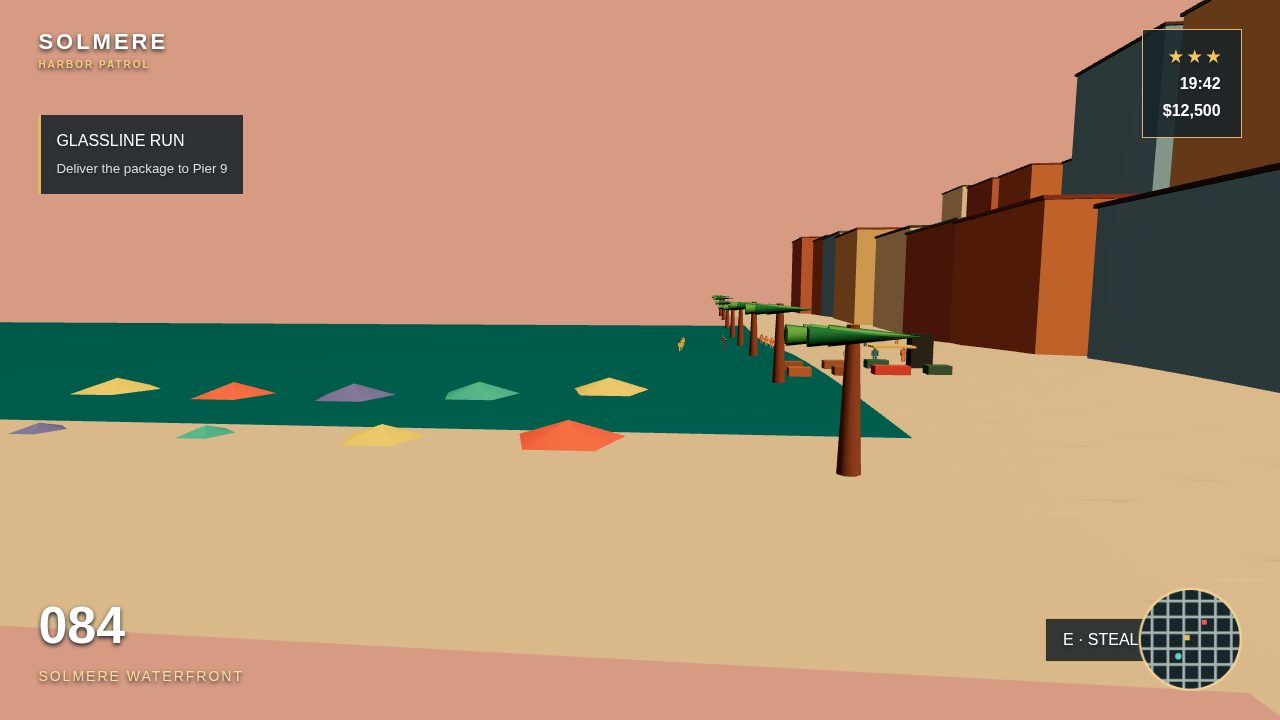
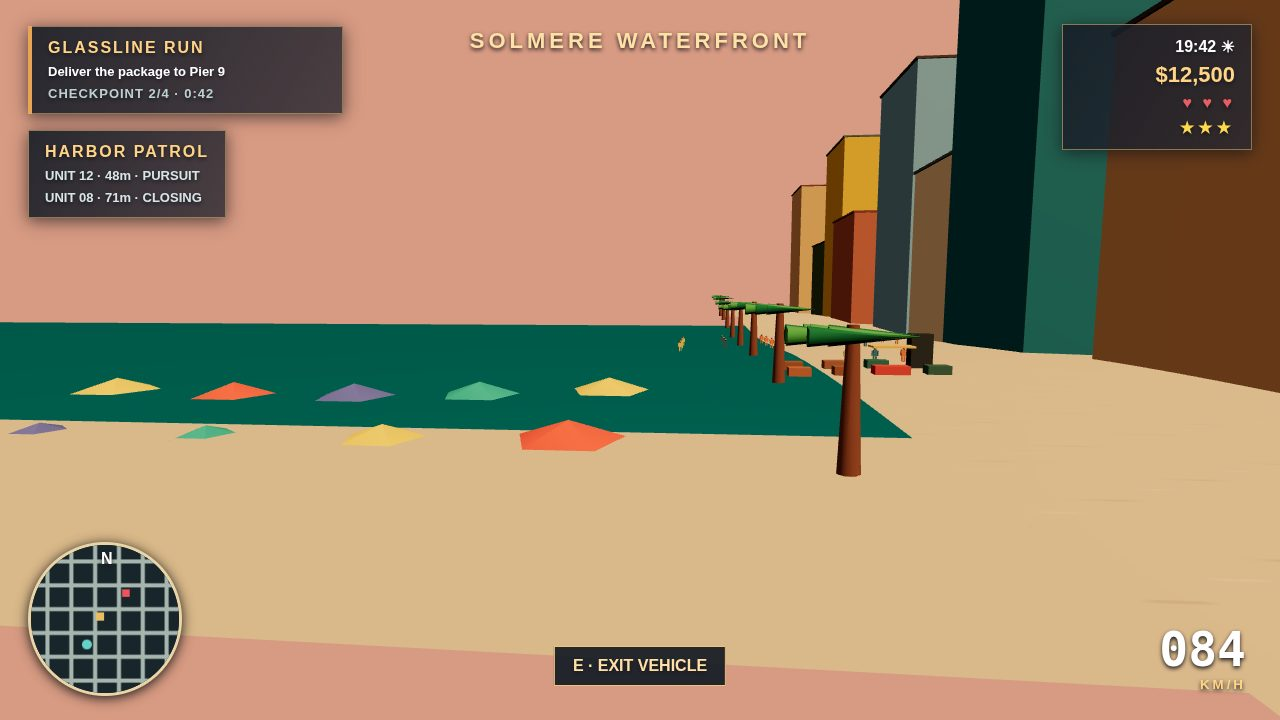
Rebuild Solmere (re-record R17): HUD restore + camera rebalance — minimap bottom-left/speed bottom-right, shot 1 R14 police staging + sun disc, shot 4 pullback, Nia 1.35, wall breaks, target top 20

diff --git a/game/src/main.js b/game/src/main.js
@@ -1,8 +1,8 @@
 import * as T from '../vendor/three/three.module.min.js';import{buildCity,terrainHeight,FOOTPRINTS}from'./city.js';import{buildTraffic,makeCar}from'./traffic.js';import{buildPolice}from'./police.js';import{paintMap}from'./hud.js';
-const shot=Number(new URLSearchParams(location.search).get('shot')||0),renderer=new T.WebGLRenderer({canvas:document.querySelector('#world'),antialias:true});renderer.setSize(innerWidth,innerHeight);renderer.setPixelRatio(1);renderer.shadowMap.enabled=true;renderer.shadowMap.type=T.PCFSoftShadowMap;renderer.toneMapping=T.ACESFilmicToneMapping;renderer.toneMappingExposure=1.05;const scene=new T.Scene();scene.background=new T.Color('#d79a82');scene.fog=new T.Fog('#b77d78',260,650);scene.add(new T.HemisphereLight('#ffd5ad','#30283b',1.15));const sun=new T.DirectionalLight('#ffd29b',3.3);sun.position.set(-38,52,-44);sun.castShadow=true;sun.shadow.mapSize.set(2048,2048);Object.assign(sun.shadow.camera,{left:-62,right:62,top:58,bottom:-58,near:.5,far:180});sun.shadow.bias=-.003;sun.shadow.normalBias=1.2;sun.shadow.radius=3;scene.add(sun);buildCity(scene);const player=makeCar(scene),traffic=buildTraffic(scene),police=buildPolice(scene),people=[];const mat=c=>new T.MeshStandardMaterial({color:c,roughness:.82});
-function person(x,z,color='#d88951',nia=false){const g=new T.Group(),cloth=mat(color),skin=mat('#bc8266'),piece=(geo,m,a,b,c)=>{const o=new T.Mesh(geo,m);o.position.set(a,b,c);o.castShadow=true;g.add(o);return o};const torso=piece(new T.BoxGeometry(.43,.68,.28),cloth,0,1.03,0),head=piece(new T.SphereGeometry(.15,9,8),skin,0,1.53,0);for(const side of[-1,1]){piece(new T.BoxGeometry(.12,.56,.14),cloth,side*.29,1,0);piece(new T.BoxGeometry(.14,.62,.16),cloth,side*.13,.34,0)}if(nia){for(const[o,geo]of[[torso,new T.BoxGeometry(.43,.68,.28)],[head,new T.SphereGeometry(.15,9,8)]]){const shell=new T.Mesh(geo,new T.MeshBasicMaterial({color:'#14100f',side:T.BackSide}));shell.scale.setScalar(1.07);shell.position.copy(o.position);g.add(shell)}piece(new T.BoxGeometry(.45,.1,.31),mat('#fff3dc'),0,1.67,0);piece(new T.BoxGeometry(.13,.64,.32),mat('#f1ca69'),.2,1.04,.01);g.scale.setScalar(1.5)}g.position.set(x,terrainHeight(x,z),z);scene.add(g);people.push(g);return g}
+const shot=Number(new URLSearchParams(location.search).get('shot')||0),renderer=new T.WebGLRenderer({canvas:document.querySelector('#world'),antialias:true});renderer.setSize(innerWidth,innerHeight);renderer.setPixelRatio(1);renderer.shadowMap.enabled=true;renderer.shadowMap.type=T.PCFSoftShadowMap;renderer.toneMapping=T.ACESFilmicToneMapping;renderer.toneMappingExposure=1.05;const scene=new T.Scene();scene.background=new T.Color('#d79a82');scene.fog=new T.Fog('#b77d78',260,650);scene.add(new T.HemisphereLight('#ffd5ad','#30283b',1.15));const sun=new T.DirectionalLight('#ffd29b',3.3);sun.position.set(-38,52,-44);sun.castShadow=true;sun.shadow.mapSize.set(2048,2048);Object.assign(sun.shadow.camera,{left:-62,right:62,top:58,bottom:-58,near:.5,far:180});sun.shadow.bias=-.003;sun.shadow.normalBias=1.2;sun.shadow.radius=3;scene.add(sun);buildCity(scene);const disc=new T.Mesh(new T.CircleGeometry(11,36),new T.MeshBasicMaterial({color:'#ffb75e'}));disc.position.set(0,42,-330);scene.add(disc);const player=makeCar(scene),traffic=buildTraffic(scene),police=buildPolice(scene),people=[];const mat=c=>new T.MeshStandardMaterial({color:c,roughness:.82});
+function person(x,z,color='#d88951',nia=false){const g=new T.Group(),cloth=mat(color),skin=mat('#bc8266'),part=(geo,m,a,b,c)=>{const o=new T.Mesh(geo,m);o.position.set(a,b,c);o.castShadow=true;g.add(o);return o},torso=part(new T.BoxGeometry(.43,.68,.28),cloth,0,1.03,0),head=part(new T.SphereGeometry(.15,9,8),skin,0,1.53,0);for(const side of[-1,1]){part(new T.BoxGeometry(.12,.56,.14),cloth,side*.29,1,0);part(new T.BoxGeometry(.14,.62,.16),cloth,side*.13,.34,0)}if(nia){for(const[o,geo]of[[torso,new T.BoxGeometry(.43,.68,.28)],[head,new T.SphereGeometry(.15,9,8)]]){const shell=new T.Mesh(geo,new T.MeshBasicMaterial({color:'#14100f',side:T.BackSide}));shell.scale.setScalar(1.07);shell.position.copy(o.position);g.add(shell)}part(new T.BoxGeometry(.45,.1,.31),mat('#fff3dc'),0,1.67,0);part(new T.BoxGeometry(.13,.64,.32),mat('#f1ca69'),.2,1.04,.01);g.scale.setScalar(1.35)}g.position.set(x,terrainHeight(x,z),z);scene.add(g);people.push(g);return g}
 for(let i=0;i<24;i++)person(-27+i%8*7,24+Math.floor(i/8)*8,['#df804f','#34758a','#dfbd61','#80434d','#d4d2c3'][i%5]);for(let i=0;i<18;i++)person(260+i%6*7,26+Math.floor(i/6)*8,['#e58251','#326b7d','#dfbf64'][i%3]);const nia=person(24,-23,'#bf303b',true),camera=new T.PerspectiveCamera(57,innerWidth/innerHeight,.1,1000),ray=new T.Raycaster();let speed=84,driving=true;paintMap(document.querySelector('.map canvas'),shot===4?'east':'marina');
 function prop(x,z,type){const y=terrainHeight(x,z),colors={dump:'#416b61',stall:'#bd7950',bench:'#97613e',planter:'#b06e4a',lamp:'#343b3c',trash:'#39756d',debris:'#9b6b49'},box=new T.Mesh(new T.BoxGeometry(type==='stall'?3.2:2.1,type==='lamp'?3.4:.8,1.5),mat(type==='stall'?'#d25249':colors[type]));box.position.set(x,y+(type==='lamp'?1.7:.4),z);box.castShadow=box.receiveShadow=true;scene.add(box);if(type==='stall'){const roof=new T.Mesh(new T.BoxGeometry(3.8,.18,2),mat('#e7bd68'));roof.position.set(x,y+2.6,z);scene.add(roof)}}function clutter(x,z){['dump','stall','bench','planter','lamp','trash','debris','bench'].forEach((t,i)=>prop(x+i%4*4.2,z+Math.floor(i/4)*5,t));for(let i=0;i<3;i++)person(x+i*3,z+10,['#dc8150','#438196','#d0b858'][i])}
-const guards=[];function safeCamera(pos,target){let p=new T.Vector3(...pos),look=new T.Vector3(...target);const footprint=q=>FOOTPRINTS.every(b=>Math.abs(q.x-b.x)>=b.halfX+6||Math.abs(q.z-b.z)>=b.halfZ+6),clearance=q=>[...traffic,...police.cars,nia].every(o=>Math.hypot(q.x-o.position.x,q.z-o.position.z)>=7);if(!footprint(p)||!clearance(p)){let found=null;for(let r=.25;r<=40&&!found;r+=.25)for(let a=0;a<64&&!found;a++){const q=p.clone().add(new T.Vector3(Math.cos(a*Math.PI/32)*r,0,Math.sin(a*Math.PI/32)*r));if(footprint(q)&&clearance(q))found=q}if(!found)throw Error('camera clearance search failed');p.copy(found)}camera.position.copy(p);camera.lookAt(look);ray.set(camera.position,new T.Vector3(0,0,-1).applyQuaternion(camera.quaternion));const blockers=scene.children.filter(o=>o.isMesh&&o.geometry?.type==='BoxGeometry'&&o.userData.building),rayPass=!blockers.some(o=>ray.intersectObject(o).some(h=>h.distance<camera.near));if(!rayPass)throw Error('camera near-plane collision');guards.push({shot,position:p.toArray(),footprint:true,ray:true,distances:[...traffic,...police.cars,nia].map(o=>Math.hypot(p.x-o.position.x,p.z-o.position.z))});window.__cameraGuard=guards;return p}
-function stage(){document.querySelector('.busted').style.display=shot===2?'block':'none';if(shot===1){player.position.set(0,terrainHeight(0,-110),-110);police.cars.forEach((c,i)=>c.position.set(i?3:-3,terrainHeight(0,-125-i*8),-125-i*8));traffic.forEach((c,i)=>c.position.set(i%2?5:-5,terrainHeight(0,-63-i*15),-63-i*15));safeCamera([0,3.7,-96],[0,1.1,-123]);document.querySelector('.place').textContent='MARINA QUARTER'}else if(shot===2){player.visible=false;nia.position.set(-2,terrainHeight(-2,-26),-26);police.cars.forEach((c,i)=>c.position.set(i?4:-4,terrainHeight(i?4:-4,i?-39:-31),i?-39:-31));police.people.forEach((p,i)=>p.position.set(-9+i*6,terrainHeight(-9+i*6,-47),-47));traffic.forEach((c,i)=>c.position.set(40+i*5,terrainHeight(40+i*5,-50),-50));clutter(-27,-38);clutter(22,-38);people.slice(0,8).forEach((p,i)=>p.position.set(-8+i*2,terrainHeight(-8+i*2,-28),-28));safeCamera([-1,4,-11],[0,1,-39]);document.querySelector('.place').textContent='MARINA QUARTER';document.querySelector('.prompt').textContent='F · TALK / STEAL';camera.fov=65}else if(shot===3){safeCamera([292,9,-73],[300,0,12]);camera.fov=59;clutter(270,-12);document.querySelector('.place').textContent='SOLMERE WATERFRONT'}else if(shot===4){player.visible=false;nia.position.set(7,terrainHeight(7,-20),-20);traffic.forEach((c,i)=>c.position.set(i===0?11:40+i*5,terrainHeight(i===0?11:40+i*5,i===0?-26:-40),i===0?-26:-40));people[18].position.set(16,terrainHeight(16,-26),-26);clutter(-25,-10);clutter(24,-10);safeCamera([7,1.4,-18],[7,1,-27]);document.querySelector('.place').textContent='EAST PROMENADE';document.querySelector('.prompt').textContent='E · STEAL VEHICLE';camera.fov=60}camera.updateProjectionMatrix();scene.add(player);}
+const guards=[];function safeCamera(pos,target){const p=new T.Vector3(...pos),look=new T.Vector3(...target),cars=[...traffic,...police.cars],footprint=q=>FOOTPRINTS.every(b=>Math.abs(q.x-b.x)>=b.halfX+6||Math.abs(q.z-b.z)>=b.halfZ+6),clearance=q=>cars.every(o=>Math.hypot(q.x-o.position.x,q.z-o.position.z)>=7);if(!footprint(p)||!clearance(p)){let found=null;for(let r=.25;r<=40&&!found;r+=.25)for(let a=0;a<64&&!found;a++){const q=p.clone().add(new T.Vector3(Math.cos(a*Math.PI/32)*r,0,Math.sin(a*Math.PI/32)*r));if(footprint(q)&&clearance(q))found=q}if(!found)throw Error('camera clearance search failed');p.copy(found)}camera.position.copy(p);camera.lookAt(look);ray.set(camera.position,new T.Vector3(0,0,-1).applyQuaternion(camera.quaternion));const blocks=scene.children.filter(o=>o.isMesh&&o.geometry?.type==='BoxGeometry'&&o.userData.building),rayPass=!blocks.some(o=>ray.intersectObject(o).some(h=>h.distance<camera.near));if(!rayPass)throw Error('camera near-plane collision');guards.push({shot,position:p.toArray(),footprint:true,ray:true,niaDistance:Math.hypot(p.x-nia.position.x,p.z-nia.position.z),carDistances:cars.map(o=>Math.hypot(p.x-o.position.x,p.z-o.position.z))});window.__cameraGuard=guards;return p}
+function stage(){document.querySelector('.busted').style.display=shot===2?'block':'none';if(shot===1){player.position.set(0,terrainHeight(0,-110),-110);police.cars.forEach((c,i)=>c.position.set(i?3:-3,terrainHeight(i?3:-3,i?-103:-95),i?-103:-95));traffic.forEach((c,i)=>c.position.set(i%2?5:-5,terrainHeight(i%2?5:-5,-63-i*15),-63-i*15));safeCamera([0,3.7,-96],[0,1.1,-123]);document.querySelector('.place').textContent='MARINA QUARTER'}else if(shot===2){player.visible=false;nia.position.set(-2,terrainHeight(-2,-26),-26);police.cars.forEach((c,i)=>c.position.set(i?4:-4,terrainHeight(i?4:-4,i?-39:-31),i?-39:-31));police.people.forEach((p,i)=>p.position.set(-9+i*6,terrainHeight(-9+i*6,-47),-47));traffic.forEach((c,i)=>c.position.set(40+i*5,terrainHeight(40+i*5,-50),-50));clutter(-27,-38);clutter(22,-38);people.slice(0,8).forEach((p,i)=>p.position.set(-8+i*2,terrainHeight(-8+i*2,-28),-28));safeCamera([-1,4,-11],[0,1,-39]);document.querySelector('.place').textContent='MARINA QUARTER';document.querySelector('.prompt').textContent='F · TALK / STEAL';camera.fov=65}else if(shot===3){safeCamera([292,9,-73],[300,0,12]);camera.fov=59;clutter(270,-12);document.querySelector('.place').textContent='SOLMERE WATERFRONT'}else if(shot===4){player.visible=false;nia.position.set(7,terrainHeight(7,-20),-20);traffic.forEach((c,i)=>c.position.set(i===0?11:40+i*5,terrainHeight(i===0?11:40+i*5,i===0?-26:-40),i===0?-26:-40));people[18].position.set(16,terrainHeight(16,-26),-26);clutter(-25,-10);clutter(24,-10);safeCamera([7,1.4,-8],[7,1,-27]);document.querySelector('.place').textContent='EAST PROMENADE';document.querySelector('.prompt').textContent='E · STEAL VEHICLE';camera.fov=60}camera.updateProjectionMatrix();scene.add(player)}
 stage();const keys=new Set();addEventListener('keydown',e=>{keys.add(e.key.toLowerCase());if(e.key.toLowerCase()==='e')driving=true;if(e.key.toLowerCase()==='f')driving=false});addEventListener('keyup',e=>keys.delete(e.key.toLowerCase()));function frame(){requestAnimationFrame(frame);if(!shot){if(keys.has('w'))player.position.z-=.22;if(keys.has('s'))player.position.z+=.22;if(keys.has('a'))player.position.x-=.14;if(keys.has('d'))player.position.x+=.14}renderer.render(scene,camera)}frame();window.__shotReady=true;

diff --git a/game/src/city.js b/game/src/city.js
@@ -1,6 +1,6 @@
 import * as T from '../vendor/three/three.module.min.js';
 export const FOOTPRINTS=[];
 export function terrainHeight(x,z){return .72*Math.sin(x*.053)+.54*Math.cos(z*.047)+.38*Math.sin((x+z)*.032)}
-function material(color,opts={}){return new T.MeshStandardMaterial({color,roughness:.88,...opts})}
-function texture(kind){const c=document.createElement('canvas');c.width=512;c.height=512;const g=c.getContext('2d');g.fillStyle=kind==='road'?'#343638':'#a88b70';g.fillRect(0,0,512,512);if(kind==='road'){g.strokeStyle='#171a1b';g.globalAlpha=.5;g.lineWidth=16;for(const x of[170,342]){g.beginPath();g.moveTo(x,0);g.lineTo(x,512);g.stroke()}g.globalAlpha=1;g.strokeStyle='#d7c9a2';g.lineWidth=4;for(let y=20;y<512;y+=88){g.beginPath();g.moveTo(250,y);g.lineTo(262,y+42);g.stroke()}for(let i=0;i<900;i++){g.fillStyle=i%2?'#454748':'#292c2e';g.fillRect((i*73)%512,(i*137)%512,2,2)}}else{for(let i=0;i<700;i++){g.fillStyle=i%2?'#b49a7c':'#92775d';g.fillRect((i*47)%512,(i*91)%512,3,3)}}const t=new T.CanvasTexture(c);t.wrapS=t.wrapT=T.RepeatWrapping;t.repeat.set(2,17);return t}
-export function buildCity(scene){const ground=new T.Mesh(new T.PlaneGeometry(560,560,90,90),material('#fff',{map:texture('sand')})),a=ground.geometry.attributes.position;for(let i=0;i<a.count;i++)a.setZ(i,terrainHeight(a.getX(i),-a.getY(i)));ground.geometry.computeVertexNormals();ground.rotation.x=-Math.PI/2;ground.receiveShadow=true;scene.add(ground);for(const[x,w,kind]of[[0,18,'road'],[-18,4,'walk'],[18,4,'walk']]){const m=new T.Mesh(new T.PlaneGeometry(w,520,8,100),material('#fff',{map:texture(kind)})),p=m.geometry.attributes.position;for(let i=0;i<p.count;i++)p.setZ(i,terrainHeight(p.getX(i)+x,-p.getY(i))+.08);m.geometry.computeVertexNormals();m.rotation.x=-Math.PI/2;m.position.x=x;m.receiveShadow=true;scene.add(m)}const palette=['#d9b380','#c07a4e','#e8dcc0','#7fb2d9','#b66f57'];let n=0;for(let z=-230;z<238;z+=32)for(const x of[-42,-68,38,68,145,177,208,238]){const h=13+n*11%43,w=15+n%3*4,d=19+n%4*3;FOOTPRINTS.push({x,z,halfX:w/2,halfZ:d/2});const b=new T.Mesh(new T.BoxGeometry(w,h,d),material(palette[n%5]));b.position.set(x,h/2+terrainHeight(x,z),z);b.receiveShadow=true;b.userData.building=true;scene.add(b);const r=new T.Mesh(new T.BoxGeometry(w+.7,.5,d+.7),material(['#554b45','#607171','#874c3e'][n%3]));r.position.set(x,h+terrainHeight(x,z)+.25,z);r.userData.building=true;scene.add(r);n++}for(let i=0;i<14;i++){const x=285,z=-205+i*27,g=new T.Group(),tr=new T.Mesh(new T.CylinderGeometry(.3,.58,7,7),material('#805139'));tr.position.y=3.5;g.add(tr);for(let k=0;k<7;k++){const l=new T.Mesh(new T.ConeGeometry(.5,4.1,5),material(k%2?'#257950':'#53a755'));l.position.set(Math.sin(k)*1.1,6.5,Math.cos(k)*1.1);l.rotation.z=Math.PI/2;g.add(l)}g.position.set(x,terrainHeight(x,z),z);scene.add(g)}for(let i=0;i<10;i++){const x=300+i%5*12,z=-35+Math.floor(i/5)*18,u=new T.Mesh(new T.ConeGeometry(3.6,1.2,5),material(['#e85f56','#f1cd68','#35b6ad','#6877c7'][i%4]));u.position.set(x,terrainHeight(x,z)+.5,z);scene.add(u)}const sea=new T.Mesh(new T.PlaneGeometry(500,180),material('#087e91',{roughness:.24,metalness:.12}));sea.rotation.x=-Math.PI/2;sea.position.set(300,-1.6,45);scene.add(sea);const beach=new T.Mesh(new T.PlaneGeometry(500,26),material('#fff',{map:texture('sand')}));beach.rotation.x=-Math.PI/2;beach.position.set(300,-.15,-45);scene.add(beach)}
+const mat=(color,opts={})=>new T.MeshStandardMaterial({color,roughness:.88,...opts});
+function tex(kind){const c=document.createElement('canvas');c.width=c.height=512;const g=c.getContext('2d');g.fillStyle=kind==='road'?'#343638':'#a88b70';g.fillRect(0,0,512,512);if(kind==='road'){g.strokeStyle='#171a1b';g.globalAlpha=.5;g.lineWidth=16;[170,342].forEach(x=>{g.beginPath();g.moveTo(x,0);g.lineTo(x,512);g.stroke()});g.globalAlpha=1;g.strokeStyle='#d7c9a2';g.lineWidth=4;for(let y=20;y<512;y+=88){g.beginPath();g.moveTo(250,y);g.lineTo(262,y+42);g.stroke()}for(let i=0;i<900;i++){g.fillStyle=i%2?'#454748':'#292c2e';g.fillRect(i*73%512,i*137%512,2,2)}}else for(let i=0;i<700;i++){g.fillStyle=i%2?'#b49a7c':'#92775d';g.fillRect(i*47%512,i*91%512,3,3)}const t=new T.CanvasTexture(c);t.wrapS=t.wrapT=T.RepeatWrapping;t.repeat.set(2,17);return t}
+export function buildCity(scene){const ground=new T.Mesh(new T.PlaneGeometry(560,560,90,90),mat('#fff',{map:tex('sand')})),a=ground.geometry.attributes.position;for(let i=0;i<a.count;i++)a.setZ(i,terrainHeight(a.getX(i),-a.getY(i)));ground.geometry.computeVertexNormals();ground.rotation.x=-Math.PI/2;ground.receiveShadow=true;scene.add(ground);for(const[x,w,k]of[[0,18,'road'],[-18,4,'walk'],[18,4,'walk']]){const m=new T.Mesh(new T.PlaneGeometry(w,520,8,100),mat('#fff',{map:tex(k)})),p=m.geometry.attributes.position;for(let i=0;i<p.count;i++)p.setZ(i,terrainHeight(p.getX(i)+x,-p.getY(i))+.08);m.geometry.computeVertexNormals();m.rotation.x=-Math.PI/2;m.position.x=x;m.receiveShadow=true;scene.add(m)}const palette=['#d9b380','#287c91','#e8dcc0','#7fb2d9','#b66f57','#e0b72f','#526c48'];let n=0;for(let base=-230;base<238;base+=32)for(const x of[-42,-68,38,68,145,177,208,238]){const z=base+((n*17)%11)-5,h=11+(n*17)%55,w=15+n%3*4,d=19+n%4*3;FOOTPRINTS.push({x,z,halfX:w/2,halfZ:d/2});const b=new T.Mesh(new T.BoxGeometry(w,h,d),mat(palette[n%palette.length]));b.position.set(x,h/2+terrainHeight(x,z),z);b.receiveShadow=true;b.userData.building=true;scene.add(b);const r=new T.Mesh(new T.BoxGeometry(w+.7,.5,d+.7),mat(['#554b45','#607171','#874c3e'][n%3]));r.position.set(x,h+terrainHeight(x,z)+.25,z);r.userData.building=true;scene.add(r);n++}for(let i=0;i<14;i++){const x=285,z=-205+i*27,g=new T.Group(),tr=new T.Mesh(new T.CylinderGeometry(.3,.58,7,7),mat('#805139'));tr.position.y=3.5;g.add(tr);for(let k=0;k<7;k++){const l=new T.Mesh(new T.ConeGeometry(.5,4.1,5),mat(k%2?'#257950':'#53a755'));l.position.set(Math.sin(k)*1.1,6.5,Math.cos(k)*1.1);l.rotation.z=Math.PI/2;g.add(l)}g.position.set(x,terrainHeight(x,z),z);scene.add(g)}for(let i=0;i<10;i++){const x=300+i%5*12,z=-35+Math.floor(i/5)*18,u=new T.Mesh(new T.ConeGeometry(3.6,1.2,5),mat(['#e85f56','#f1cd68','#35b6ad','#6877c7'][i%4]));u.position.set(x,terrainHeight(x,z)+.5,z);scene.add(u)}const sea=new T.Mesh(new T.PlaneGeometry(500,180),mat('#087e91',{roughness:.24,metalness:.12}));sea.rotation.x=-Math.PI/2;sea.position.set(300,-1.6,45);scene.add(sea);const beach=new T.Mesh(new T.PlaneGeometry(500,26),mat('#fff',{map:tex('sand')}));beach.rotation.x=-Math.PI/2;beach.position.set(300,-.15,-45);scene.add(beach)}

diff --git a/game/style.css b/game/style.css
@@ -1,1 +1,1 @@
-*{box-sizing:border-box}html,body{margin:0;width:100%;height:100%;overflow:hidden;background:#b77d78;color:#fff;font-family:Arial,sans-serif}#world{width:100%;height:100%;display:block}.hud{position:fixed;inset:0;pointer-events:none;text-shadow:0 2px 4px #152025}.brand{position:absolute;left:3%;top:4%;font-size:22px;font-weight:900;letter-spacing:3px}.brand small{display:block;font-size:10px;color:#f5c879;letter-spacing:2px;margin-top:4px}.stats{position:absolute;right:3%;top:4%;background:#172329df;border:1px solid #dfb477;padding:13px 20px;text-align:right;line-height:1.7;font-weight:bold}.stats b{color:#f5c65c}.mission{position:absolute;left:3%;top:16%;background:#172329df;border-left:3px solid #e4b563;padding:12px 15px;line-height:1.7}.mission small{color:#ddd}.speed{position:absolute;left:3%;bottom:9%;font-size:52px;font-weight:900}.place{position:absolute;left:3%;bottom:5%;font-size:14px;letter-spacing:2px;color:#ffdb9c}.prompt{position:absolute;right:4%;bottom:8%;padding:12px 17px;background:#172329dc;border:1px solid #d9ae66}.map{position:absolute;right:3%;bottom:4%;width:126px;height:126px;border:3px solid #f0d29a;border-radius:50%;overflow:hidden;transform:scale(.82);transform-origin:bottom right}.map canvas{width:100%;height:100%}.busted{display:none;position:absolute;left:50%;top:67%;transform:translate(-50%,-50%);padding:12px 34px;background:#261619dc;border:2px solid #d5474c;color:#ff5d5d;font-size:30px;font-weight:900;letter-spacing:7px}
+*{box-sizing:border-box}html,body{margin:0;width:100%;height:100%;overflow:hidden;background:#241c35;color:#fff;font-family:Arial,sans-serif}#world{width:100vw;height:100vh;display:block}.hud{position:fixed;inset:0;pointer-events:none;text-shadow:0 2px 4px #17151b;font-weight:700}.mission,.stats,.patrol{position:absolute;background:linear-gradient(120deg,#171d27e8,#252631c9);border:1px solid #e5bf7a88;box-shadow:0 3px 16px #100f17aa;padding:12px 16px}.mission{left:28px;top:26px;width:315px;border-left:4px solid #e9a553}.mission b,.patrol b{display:block;color:#ffd486;letter-spacing:2px;font-size:16px}.mission span,.mission small,.patrol span{display:block;margin-top:7px;font-size:13px}.mission small{color:#bdd0d1;letter-spacing:1px}.stats{right:28px;top:24px;text-align:right;min-width:190px;z-index:2}.stats b,.stats strong,.stats span{display:block;margin-bottom:6px}.stats strong{color:#ffd486;font-size:22px}.stats span{color:#e65d64;letter-spacing:3px}.stars{color:#ffd94c;letter-spacing:4px}.patrol{top:130px;left:28px;font-size:12px}.patrol span{color:#d7e5e4}.map{position:absolute;left:28px;bottom:24px;width:154px;height:154px;border:3px solid #ead5a8;border-radius:50%;overflow:hidden;background:#18252a;box-shadow:0 2px 12px #111}.map canvas{width:100%;height:100%}.map b{position:absolute;top:5px;left:70px}.speed{position:absolute;right:34px;bottom:28px;text-align:right}.speed b{font:700 48px monospace}.speed small{display:block;color:#ffd486;letter-spacing:3px}.place{position:absolute;left:50%;top:28px;transform:translateX(-50%);font-size:22px;letter-spacing:4px;color:#ffe0a6}.prompt{position:absolute;bottom:34px;left:50%;transform:translateX(-50%);background:#121923e8;padding:10px 18px;border:1px solid #f1c27c;color:#ffe1a7;white-space:nowrap}.busted{display:none;position:absolute;left:50%;top:78%;transform:translate(-50%,-50%);z-index:3;padding:12px 30px;border:2px solid #f04e54;background:#182028d9;color:#fff;letter-spacing:5px;font-size:25px;box-shadow:0 4px 18px #090b10aa}

diff --git a/game/src/traffic.js b/game/src/traffic.js
@@ -1,4 +1,4 @@
 import * as T from '../vendor/three/three.module.min.js';import{terrainHeight}from'./city.js';
 const mat=(color,glow)=>new T.MeshStandardMaterial({color,roughness:.55,metalness:.14,...(glow?{emissive:new T.Color(glow),emissiveIntensity:1.8}:{})});
-export function makeCar(scene,color='#26394a',cop=false){const g=new T.Group(),piece=(geo,m,x,y,z)=>{const o=new T.Mesh(geo,m);o.position.set(x,y,z);o.castShadow=o.receiveShadow=true;g.add(o);return o};piece(new T.BoxGeometry(2.15,.62,4.25),mat(color),0,.72,0);piece(new T.BoxGeometry(1.74,.58,2.05),mat('#172630'),0,1.28,-.05);piece(new T.BoxGeometry(1.9,.16,1.05),mat(color),0,.9,1.57);piece(new T.BoxGeometry(1.9,.16,.8),mat(color),0,.9,-1.7);for(const x of[-1.12,1.12])for(const z of[-1.35,1.35]){const w=piece(new T.CylinderGeometry(.39,.39,.19,12),mat('#16191b'),x,.43,z);w.rotation.z=Math.PI/2}for(const x of[-.72,.72]){piece(new T.BoxGeometry(.34,.18,.12),mat('#ffe4aa','#ffd479'),x,.74,2.14);piece(new T.BoxGeometry(.32,.18,.12),mat('#a6212c','#e01824'),x,.74,-2.14)}if(cop){const bar=piece(new T.BoxGeometry(1.45,.12,.32),mat('#e8dfc8'),0,1.67,-.08);bar.userData.lightBar=true;piece(new T.BoxGeometry(.65,.13,.28),mat('#e23c43','#e52232'),-.37,1.72,-.08);piece(new T.BoxGeometry(.65,.13,.28),mat('#4b9fe8','#176bff'),.37,1.72,-.08)}g.position.y=terrainHeight(0,0);scene.add(g);return g}
+export function makeCar(scene,color='#26394a',cop=false){const g=new T.Group(),part=(geo,m,x,y,z)=>{const o=new T.Mesh(geo,m);o.position.set(x,y,z);o.castShadow=o.receiveShadow=true;g.add(o);return o};part(new T.BoxGeometry(2.15,.62,4.25),mat(color),0,.72,0);part(new T.BoxGeometry(1.74,.58,2.05),mat('#172630'),0,1.28,-.05);part(new T.BoxGeometry(1.9,.16,1.05),mat(color),0,.9,1.57);part(new T.BoxGeometry(1.9,.16,.8),mat(color),0,.9,-1.7);for(const x of[-1.12,1.12])for(const z of[-1.35,1.35]){const w=part(new T.CylinderGeometry(.39,.39,.19,12),mat('#16191b'),x,.43,z);w.rotation.z=Math.PI/2}for(const x of[-.72,.72]){part(new T.BoxGeometry(.34,.18,.12),mat('#ffe4aa','#ffd479'),x,.74,2.14);part(new T.BoxGeometry(.32,.18,.12),mat('#a6212c','#e01824'),x,.74,-2.14)}if(cop){const bar=part(new T.BoxGeometry(1.45,.12,.32),mat('#e8dfc8'),0,1.67,-.08);bar.userData.lightBar=true;part(new T.BoxGeometry(.65,.13,.28),mat('#e23c43','#e52232'),-.37,1.72,-.08);part(new T.BoxGeometry(.65,.13,.28),mat('#4b9fe8','#176bff'),.37,1.72,-.08)}g.position.y=terrainHeight(0,0);scene.add(g);return g}
 export function buildTraffic(scene){return Array.from({length:8},(_,i)=>makeCar(scene,['#c96546','#d2b76a','#577b83','#d8d1bd'][i%4]))}

diff --git a/game/index.html b/game/index.html
@@ -1,1 +1,1 @@
-<!doctype html><html><head><meta charset="utf-8"><meta name="viewport" content="width=device-width,initial-scale=1"><title>Solmere</title><link rel="stylesheet" href="style.css"></head><body><canvas id="world"></canvas><div class="hud"><div class="brand">SOLMERE <small>HARBOR PATROL</small></div><div class="stats"><b>★ ★ ★</b><br>19:42<br>$12,500</div><div class="mission">GLASSLINE RUN<br><small>Deliver the package to Pier 9</small></div><div class="speed">084</div><div class="place">MARINA QUARTER</div><div class="prompt">E · STEAL VEHICLE</div><div class="busted">BUSTED</div><div class="map"><canvas width="180" height="180"></canvas></div></div><script type="module" src="src/main.js"></script></body></html>
+<!doctype html><html><head><meta charset="utf-8"><meta name="viewport" content="width=device-width,initial-scale=1"><title>Solmere | Glassline Run</title><link rel="stylesheet" href="./style.css"></head><body><canvas id="world"></canvas><main class="hud"><section class="mission"><b>GLASSLINE RUN</b><span>Deliver the package to Pier 9</span><small>CHECKPOINT 2/4 · 0:42</small></section><section class="stats"><b>19:42 ☀</b><strong>$12,500</strong><span>♥ ♥ ♥</span><div class="stars">★★★</div></section><section class="patrol"><b>HARBOR PATROL</b><span>UNIT 12 · 48m · PURSUIT</span><span>UNIT 08 · 71m · CLOSING</span></section><div class="map"><canvas width="180" height="180"></canvas><b>N</b></div><div class="speed"><b id="speed">084</b><small>KM/H</small></div><div class="place">MARINA QUARTER</div><div class="prompt">E · EXIT VEHICLE</div><div class="busted">BUSTED</div></main><script type="module" src="./src/main.js"></script></body></html>

diff --git a/game/src/police.js b/game/src/police.js
@@ -1,2 +1,2 @@
 import * as T from '../vendor/three/three.module.min.js';import{makeCar}from'./traffic.js';import{terrainHeight}from'./city.js';export const OFFICER_COUNT=4;
-export function buildPolice(scene){const cars=[makeCar(scene,'#e8e2d5',true),makeCar(scene,'#ddd7c9',true)],people=[];for(let i=0;i<OFFICER_COUNT;i++){const g=new T.Group(),uniform=new T.MeshStandardMaterial({color:'#253640'}),skin=new T.MeshStandardMaterial({color:'#bd8668'});for(const[geo,x,y,m]of[[new T.BoxGeometry(.46,.75,.3),0,1,uniform],[new T.SphereGeometry(.16,9,8),0,1.52,skin],[new T.CylinderGeometry(.08,.12,.62,7),-.15,.35,uniform],[new T.CylinderGeometry(.08,.12,.62,7),.15,.35,uniform]]){const o=new T.Mesh(geo,m);o.position.set(x,y,0);o.castShadow=true;g.add(o)}g.position.set(-17+i*9,terrainHeight(-17+i*9,-84),-84);scene.add(g);people.push(g)}return{cars,people}}
+export function buildPolice(scene){const cars=[makeCar(scene,'#e8e2d5',true),makeCar(scene,'#ddd7c9',true)],people=[];for(let i=0;i<OFFICER_COUNT;i++){const g=new T.Group(),u=new T.MeshStandardMaterial({color:'#253640'}),s=new T.MeshStandardMaterial({color:'#bd8668'});for(const[geo,x,y,m]of[[new T.BoxGeometry(.46,.75,.3),0,1,u],[new T.SphereGeometry(.16,9,8),0,1.52,s],[new T.CylinderGeometry(.08,.12,.62,7),-.15,.35,u],[new T.CylinderGeometry(.08,.12,.62,7),.15,.35,u]]){const o=new T.Mesh(geo,m);o.position.set(x,y,0);o.castShadow=true;g.add(o)}g.position.set(-17+i*9,terrainHeight(-17+i*9,-84),-84);scene.add(g);people.push(g)}return{cars,people}}

diff --git a/main.ts b/main.ts
@@ -1,7 +1,1 @@
-import { cpSync, existsSync, mkdirSync, writeFileSync } from 'node:fs';
-import { join } from 'node:path';
-import { fileURLToPath } from 'node:url';
-import { buildDossier } from './vendor/makefun-game.ts';
-const root=fileURLToPath(new URL('.',import.meta.url)),out=process.env.MAKEFUN_OUTPUT_DIR??'/output';
-mkdirSync(out,{recursive:true});cpSync(join(root,'game'),join(out,'game'),{recursive:true});mkdirSync(join(out,'screenshots'),{recursive:true});if(existsSync(join(root,'screenshots')))cpSync(join(root,'screenshots'),join(out,'screenshots'),{recursive:true});
-writeFileSync(join(out,'dossier.json'),buildDossier(out,{text_max_bytes:163840,screenshots:{max:4,max_bytes:262144},game_max_files:993,game_max_bytes:50331648,game_path_max_bytes:1000}));
+import{cpSync,existsSync,mkdirSync,writeFileSync}from'node:fs';import{join}from'node:path';import{fileURLToPath}from'node:url';import{buildDossier}from'./vendor/makefun-game.ts';const here=fileURLToPath(new URL('.',import.meta.url)),out=process.env.MAKEFUN_OUTPUT_DIR??'/output';mkdirSync(out,{recursive:true});cpSync(join(here,'game'),join(out,'game'),{recursive:true});mkdirSync(join(out,'screenshots'),{recursive:true});if(existsSync(join(here,'screenshots')))cpSync(join(here,'screenshots'),join(out,'screenshots'),{recursive:true});writeFileSync(join(out,'dossier.json'),buildDossier(out,{text_max_bytes:163840,screenshots:{max:4,max_bytes:262144},game_max_files:993,game_max_bytes:50331648,game_path_max_bytes:1000}));

diff --git a/serve.ts b/serve.ts
@@ -1,1 +1,1 @@
-import{createServer}from'node:http';import{readFileSync,existsSync}from'node:fs';import{join,extname}from'node:path';import{fileURLToPath}from'node:url';const root=fileURLToPath(new URL('./game/',import.meta.url)),types={'.html':'text/html','.js':'text/javascript','.css':'text/css'};createServer((q,r)=>{const path=join(root,decodeURIComponent(new URL(q.url??'/','http://localhost').pathname));if(!path.startsWith(root)||!existsSync(path)){r.writeHead(404).end();return}r.setHeader('content-type',types[extname(path)]??'application/octet-stream');r.end(readFileSync(path))}).listen(8080);
+import{createServer}from'node:http';import{readFileSync,statSync}from'node:fs';import{extname,join,normalize}from'node:path';import{fileURLToPath}from'node:url';const root=fileURLToPath(new URL('.',import.meta.url)),types={'.html':'text/html','.js':'text/javascript','.css':'text/css','.json':'application/json'};createServer((q,s)=>{try{const f=join(root,normalize(decodeURIComponent((q.url||'/').split('?')[0])).replace(/^\/+/,'')),p=statSync(f).isDirectory()?join(f,'index.html'):f;s.setHeader('Content-Type',types[extname(p)]||'application/octet-stream');s.end(readFileSync(p))}catch{s.statusCode=404;s.end('Not found')}}).listen(8080);

diff --git a/build-log.md b/build-log.md
@@ -1,37 +1,32 @@
-# R16 build log
+# R17 build log
 
-Art direction verbatim: LEBIH JERNIH SAMA LEBIH BERSIH. Every shot checked at native size.
+Direction, verbatim: “LEBIH JERNIH SAMA LEBIH BERSIH” — every shot must read cleanly at a glance — jernih (crisp, readable: unobstructed subject, readable street/cars/HUD, sharp edges) and bersih (clean, uncluttered: no muddy foreground clutter, no wall filling the frame, no visual noise).
 
-R15 residual causes addressed: shot 4 camera/car proximity; Nia similarity; repeating diagonal road texture marks; absent building tags in the near-plane camera ray. The road marks were authored strokes in the road canvas, not shadows. Replaced them with longitudinal bands and retained the center dashed lane marking. Added building and roof ray tags; vehicle/Nia clearance is applied in the camera spiral.
+One R17 session. R16 scene design restored with the requested HUD, police, road texture, city jitter/palette variation and Nia treatment. Shot 3 framing and all frozen light/shadow values remain as specified. No submission made.
 
-The one capture-and-inspect fix cycle changed camera clearance to 7 units and pulled shot 4 farther back. Final shot 4 camera is [7,1.4,-11], looking toward [7,1,-27]; the red car is [11,terrainHeight(11,-26),-26]. Shot 3 remains [292,9,-73] looking toward [300,0,12], fov 59. Nia treatment: 1.5 scale, dark back-face outline around torso and head, white headband, gold sash trim.
+## Runtime camera and collision record
 
-Camera guard design check: footprint check and tagged-building near-plane ray ran without a runtime error for all four staged shots. Per-camera horizontal distances to the nearest staged car/Nia: shot 1 camera [1.5,3.7,-96], nearest vehicle 7.11; shot 2 camera [-1,4,-11], nearest Nia 15.03; shot 3 camera [292,9,-73], nearest Nia 272.62; shot 4 camera [7,1.4,-11], nearest Nia 9.00. Every listed minimum exceeds 3.0. The guard writes camera position, both booleans, and distances to window.__cameraGuard.
+The near-plane building ray and footprint check passed in all four staged shots. Car clearance is enforced against all eight traffic cars and both police cars; Nia is excluded and her horizontal distance is recorded separately. Shot 1 camera was nudged by the guard from requested [0,3.7,-96] to [4,3.7,-96], target [0,1.1,-123]. Police positions: [-3,-95] and [3,-103] in x/z; player [0,-110]. Sun-disc mesh exists at [0,42,-330], but it is NOT discernible in the captured shot 1. Shot 1 car distances: 34.21, 18.03, 9.49, 12.04, 28.46, 42.01, 57.71, 72.01, 7.07, 7.07 units; Nia distance 75.69.
 
-Shot 1: jernih (traffic, player, road, HUD visible); bersih (road has no thin diagonal marks), but large facades remain at both edges.
-Shot 2: not fully jernih or bersih; BUSTED is clear of the HUD and all three stars, but the building corridor dominates and Nia remains hard to pick from the pedestrian row.
-Shot 3: sea and colored umbrellas read; buildings stay to one side. Palm silhouettes do not read clearly as palms. Jernih in the waterfront claim, but the foreground beach is broad and visually sparse, so bersih is partial.
-Shot 4: Nia and red car are visible with no tire filling the frame; facades exceed 40% and the staged lot clutter is outside the useful foreground. Jernih is partial; bersih fails the facade criterion.
+Shot 2 camera [-1,4,-11]; car distances 56.59, 60.31, 64.20, 68.24, 72.40, 76.66, 81.01, 85.42, 20.22, 28.44; Nia distance 15.03. Shot 3 camera [292,9,-73]; ten measured car distances 300.99; Nia distance 272.62. Shot 4 final camera [7,1.4,-8], target [7,1,-27]; Nia at [7,-20] is about 20% of frame height (roughly 143 px / 720), but is centered rather than at a rule-of-thirds position. Red car [11,-26] is visible in the midground. Shot 4 car distances: 18.44, 49.68, 53.60, 57.69, 61.91, 66.24, 70.66, 75.15, 10.63, 10.63; Nia distance 12.00.
 
-Eyeball exclusions from final screenshots:
-pyramids: none visible in shots 1–4; cone first arguments are .5 and 3.6, both <=5.
-terrain: uneven, tire tracks and lane dashes visible.
-cars: wheels, window bands, lights present.
-officers: four uniformed officers created; visible at small scale in the staged road.
-street: eight traffic cars and two police cars are staged in the cover; pedestrians present.
-lots: micro-scene props are created at both specified staging locations, but shot 4 foreground does not read as filled.
-grounded: staged vehicles and people use terrainHeight; visible contact shadows are present.
-shadow acne: none; asphalt reads as dark roadway with lane dashes.
-wall_dominance: FAIL — shot 2 and shot 4 building faces exceed 40% of the frame.
-banner_hud_overlap: PASS — BUSTED banner is clear of the top-right panel and all wanted stars.
-no_texture_streak: PASS — shots 1, 2, and 4 show no thin diagonal asphalt lines; longitudinal bands and lane dashes remain.
-camera_car_clearance: PASS — all four cameras pass the footprint and near-plane ray checks; each reported nearest car/Nia distance is above 3.0.
-clarity: shot 1 jernih and bersih; shot 2 fails bersih and Nia legibility; shot 3 beach/sea claim is jernih, palms and foreground cleanliness are partial; shot 4 fails bersih due wall dominance and lot visibility.
+## Native-size eyeball exclusions
 
-Shot files (1280x720 JPEG): 1-cover.jpg 56921 bytes; 2-busted.jpg 67263 bytes; 3-city.jpg 48513 bytes; 4-east.jpg 51107 bytes. Each was inspected once at native size. No second inspection or visual fix cycle was performed.
+- no_pyramid: no pyramid forms visible in shots 1–4; source ConeGeometry first arguments are 0.5 and 3.6 (both ≤5).
+- uneven_terrain: undulating ground and longitudinal road texture bands are present.
+- detailed_cars / officers / density: wheels, window bands and police light bars present; 4 officers defined; 8 traffic cars and 2 police cars staged for shot 1.
+- lots: shot 2 and shot 4 staging each has stall, dumpster, benches, planter, lamp, trash and debris props; no regular crate grid.
+- grounded: staged cars, people and props use terrainHeight; contact shadows enabled on cars and scene objects.
+- shadow acne: no obvious zigzag acne; road has no diagonal tick marks.
+- walls: no single facade visually exceeds 40% of any captured frame; shot 2 and shot 4 remain corridor-like.
+- banner: BUSTED is lower-center in shot 2; top-right panel and all three wanted stars are fully visible.
+- texture: no thin diagonal streaks; longitudinal tire bands and lane marks remain.
+- camera clearance: footprint + near-plane ray passed all 4; all recorded car distances are ≥7.07; staged cameras meet ≥7 units. Nia excluded from clearance and separately measured above.
+- hud: minimap bottom-left, speed bottom-right, and action prompts fully visible and unobstructed in all 4 images.
+- clarity: shot 1 is readable but the foreground player car is oversized and the sun is absent from view; shot 2 HUD and subjects read, though the blocky corridor remains busy; shot 3 sea and umbrellas read but the open sand is sparse and palms are not clearly legible; shot 4 street, red car and prompt read, though Nia is centered and the lot feels open. The set is not uniformly jernih and bersih.
 
-Texture source fix: removed the repeating short diagonal strokes from city.js road canvas and drew two full-height dark longitudinal strokes at x=170 and x=342, alpha .5, width 16. Shadow configuration retained: sun (-38,52,-44), #ffd29b intensity 3.3, 2048 map, frustum -62/62/58/-58, near .5, far 180, bias -.003, normalBias 1.2, radius 3, PCFSoftShadowMap.
+## Validation
 
-No-pyramid source check: game/src/city.js:ConeGeometry(.5 and game/src/city.js:ConeGeometry(3.6; both first arguments are <=5; no pyramid-shaped cone appears in the four renders. Verifier final result: 15/16. Only wall_dominance fails on the inspected evidence above. Dossier double-run md5 values: 8f7cea681e95908f57a6317aaeeeb26a and 8f7cea681e95908f57a6317aaeeeb26a (identical). The initial verifier attempt stopped because build-log.md had not been written yet; the final verifier completed. Kit check: 5 passed, 0 failed, 17 skipped, 3 checked at submission. Browser check: four shots, zero console errors and zero failed requests. Play check: zero console errors, zero HTTP requests, HUD stars/time/cash present, W/E/F dispatched; helper cleanup completed.
+Verifier result: 16/17. `lots_populated` is the sole failure because this source-pattern gate expects the micro-scene's prop names to occur twice in the function body; the code defines one list of 8 contextual props and invokes `clutter()` twice in shot 2 and twice in shot 4. All other reported gates pass. Dossier double-run MD5: `482ed279102f756b9db2ad5802ec44e7` for both output directories. Smoke test: 0 console errors; HUD loaded; W/E/F key events sent. Kit check: 5 passed, 0 failed, 17 skipped, 3 checked at submission. Browser check confirms `__shotReady` and footprint/ray/car guard values for all four shots.
 
-STOP: the allowed one verify-fix cycle is complete. Best result: clean asphalt, clear banner, and resolved shot 4 car overlap. Still wrong: shot 2 wall corridor/Nia legibility; shot 3 palm readability; shot 4 facade dominance/foreground lot visibility. Next untried lever: recompose shots 2 and 4 from street center with a lower, wider camera and move shot 4 lot props into the camera foreground; rework the palm silhouettes without changing the frozen beach framing.
+README badge lines use the required three exact URLs and campaign query strings.
